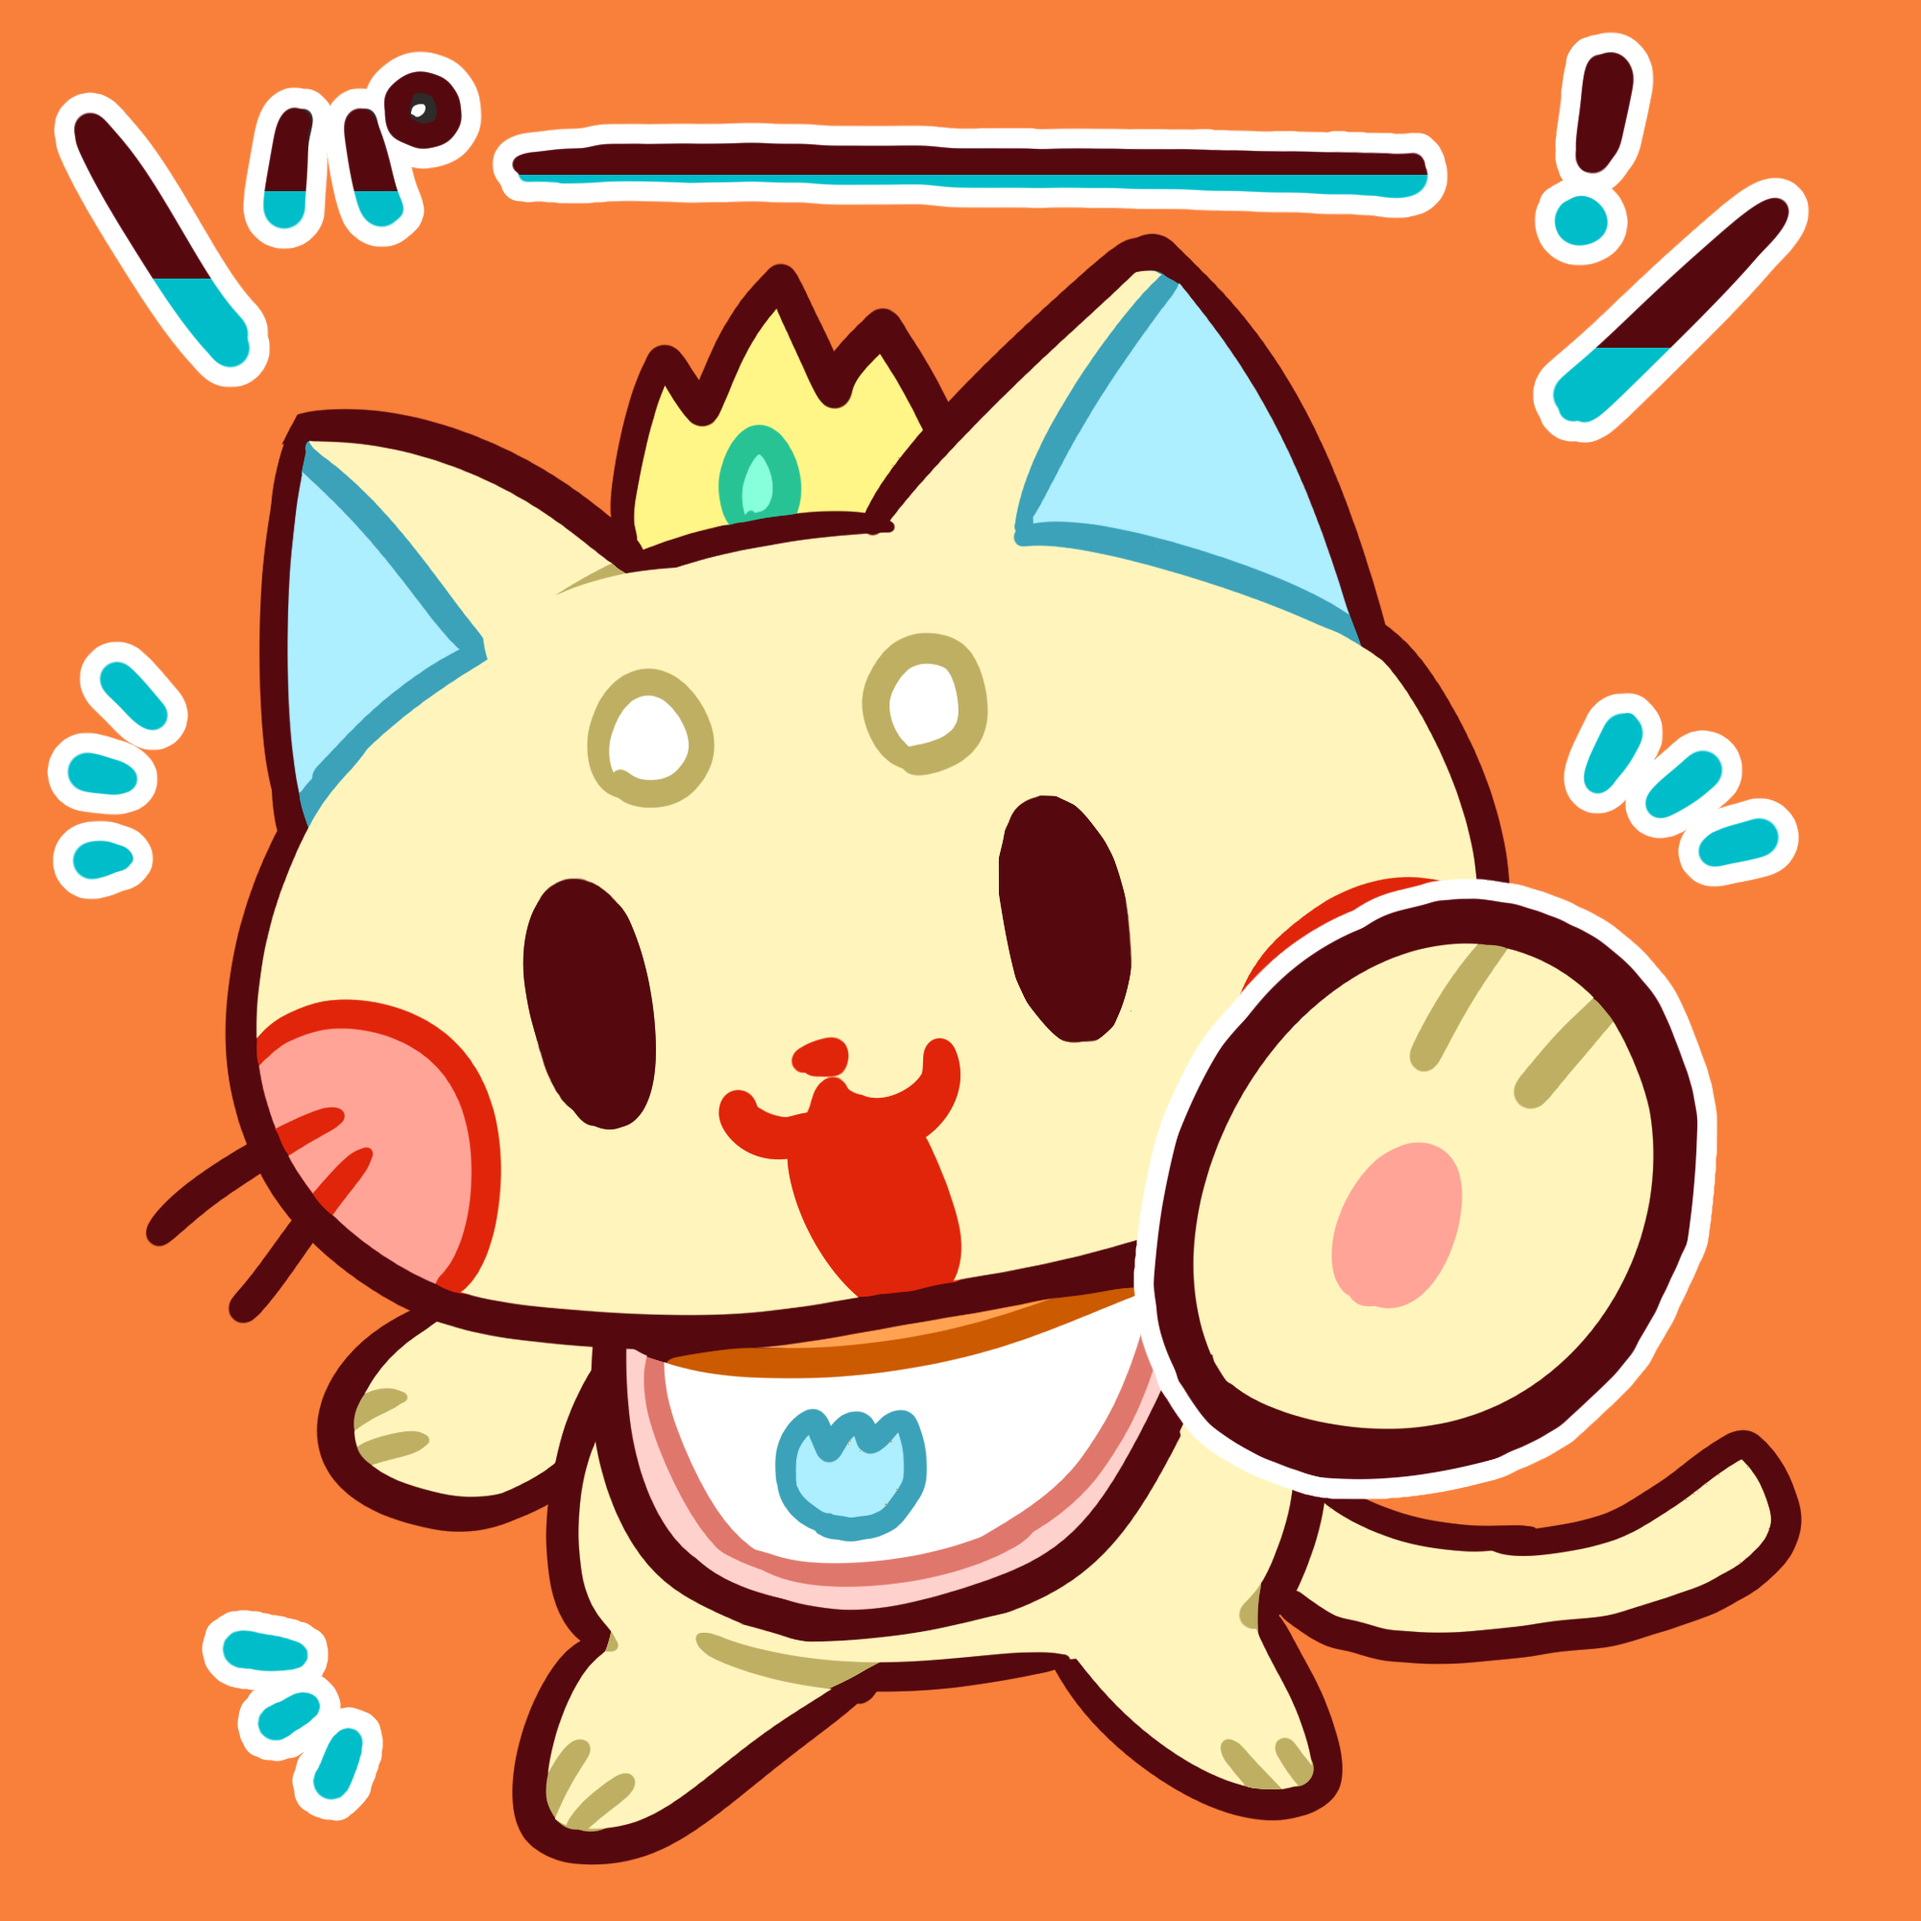
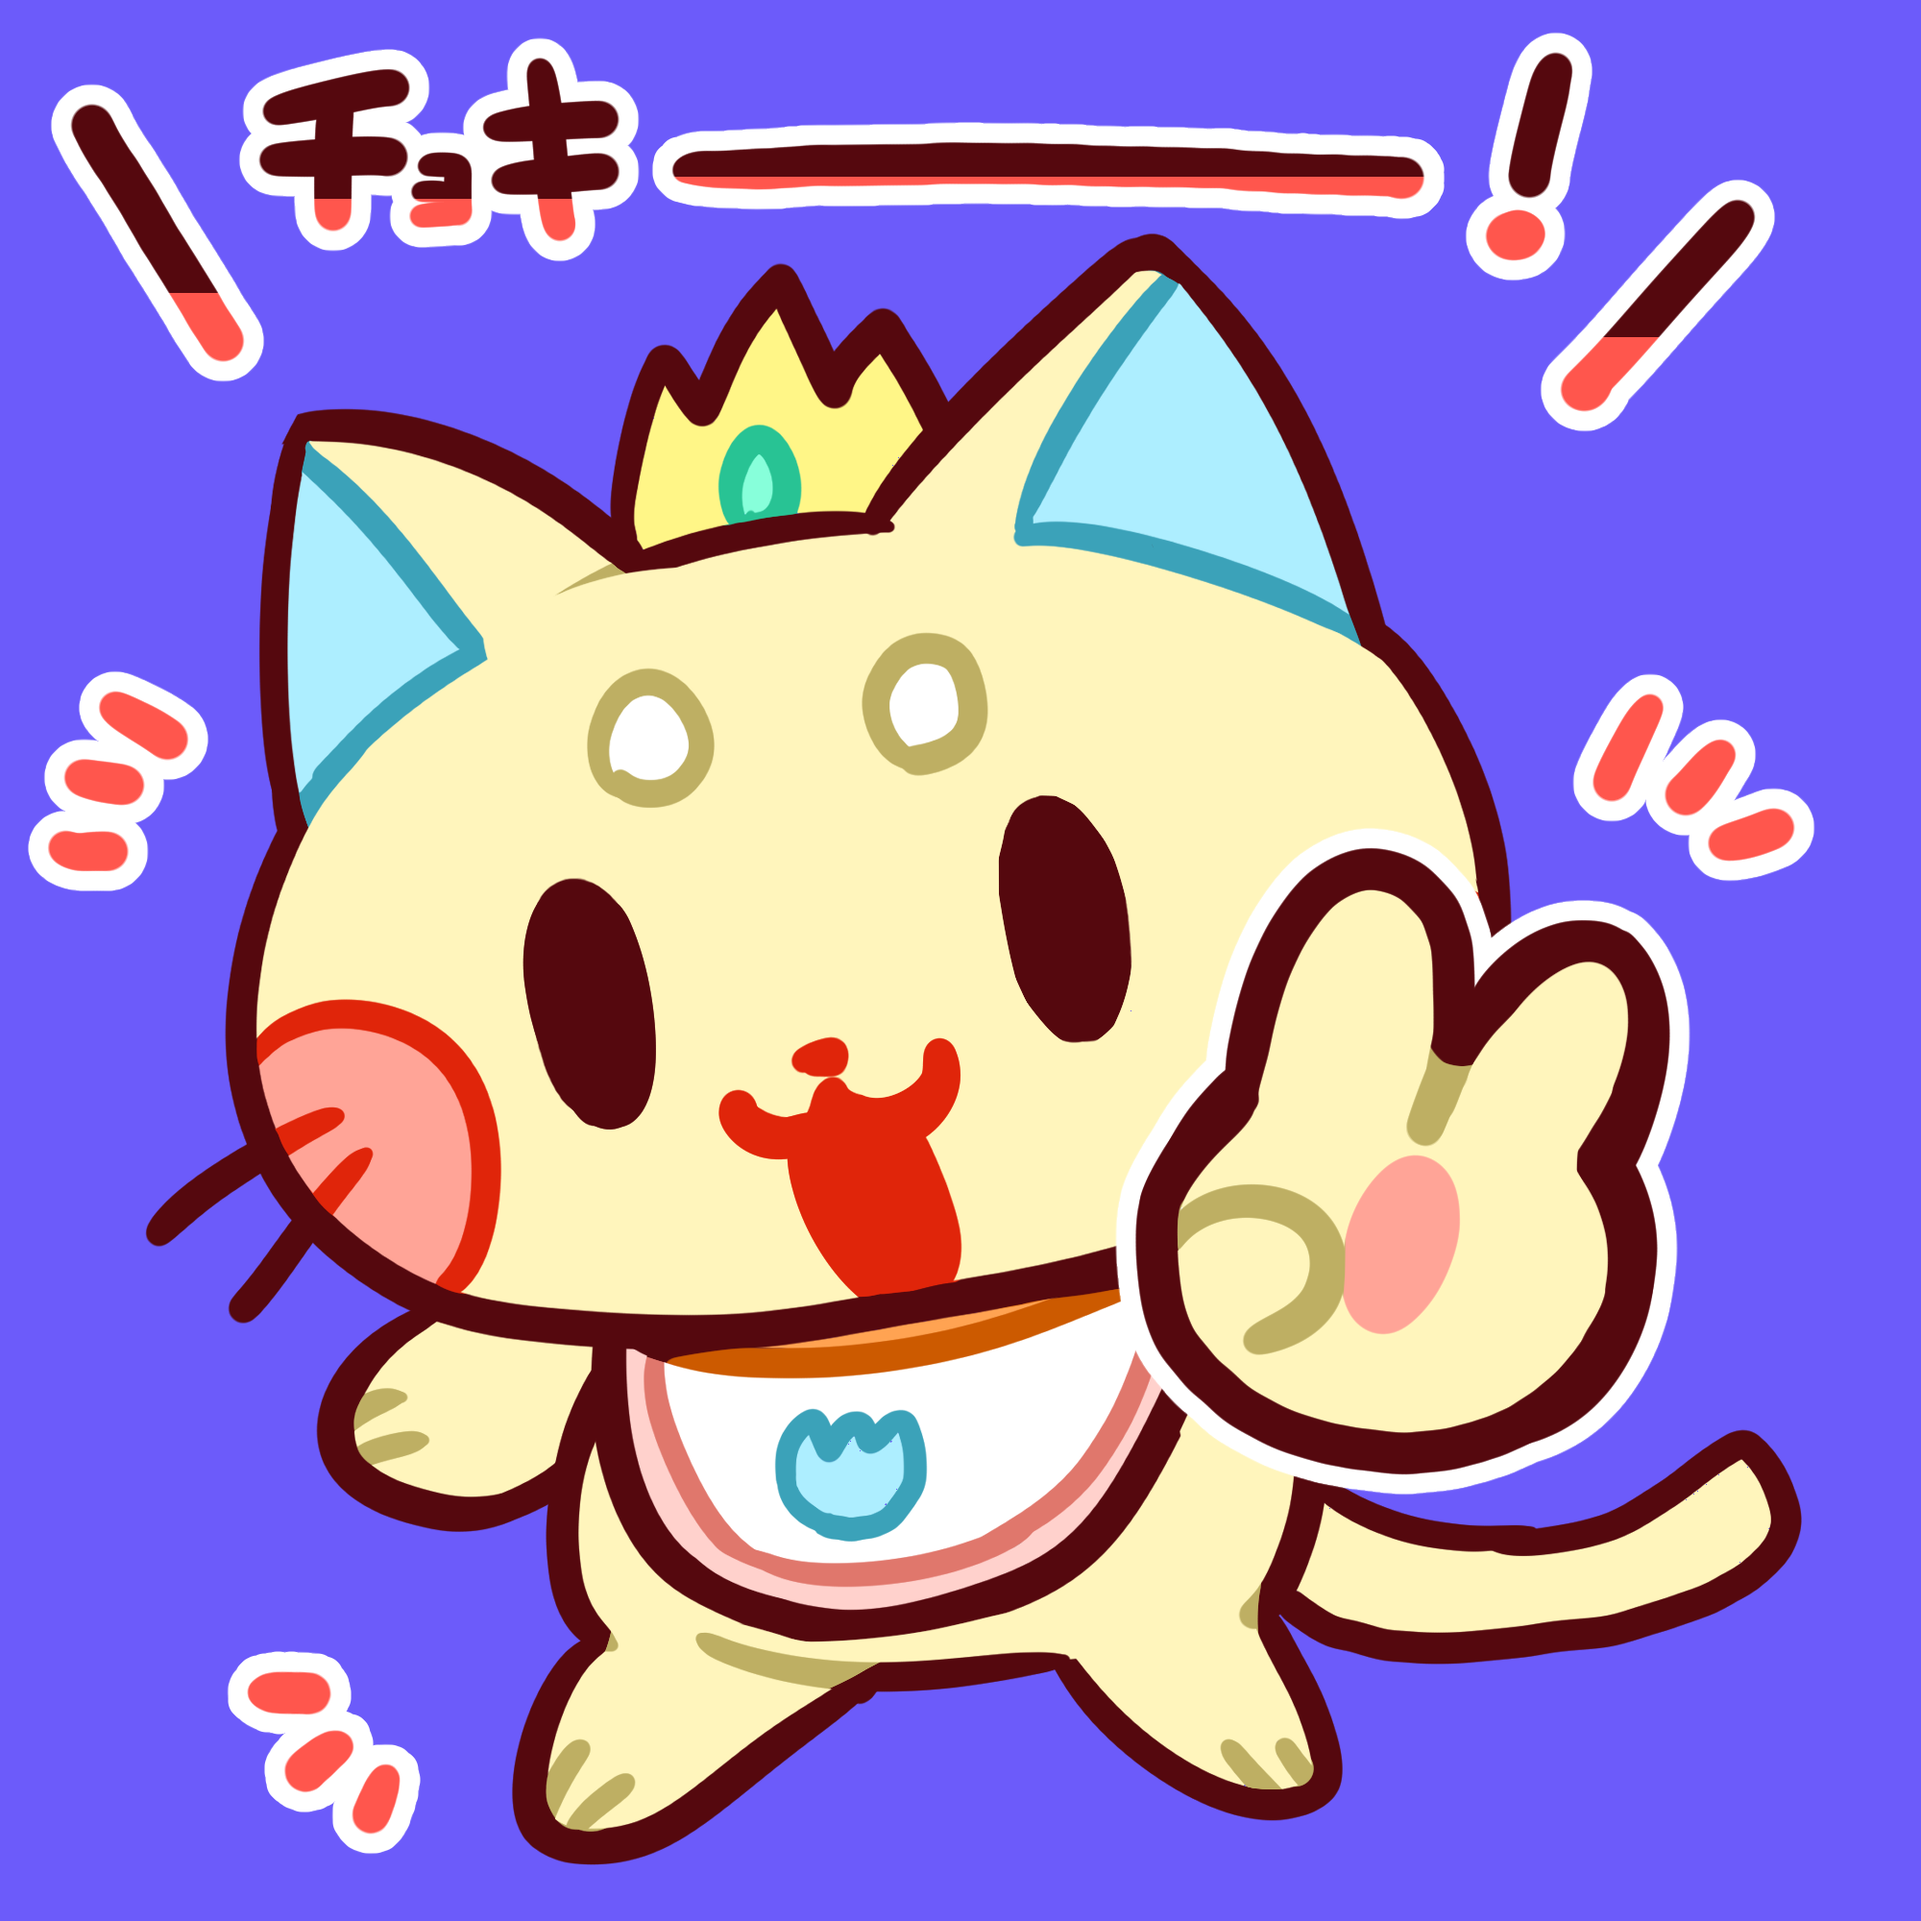
update

diff --git a/docs/index.md b/docs/index.md
@@ -88,7 +88,10 @@
 
 - グー：gu-
 - チョキ：chi-
-- パー：pa-　
+- パー：pa-
+
+## イラスト寄贈
+- [おいも](https://twitter.com/oimosan1125)
 
 ### 使い方(チョキを出す)
 ```
